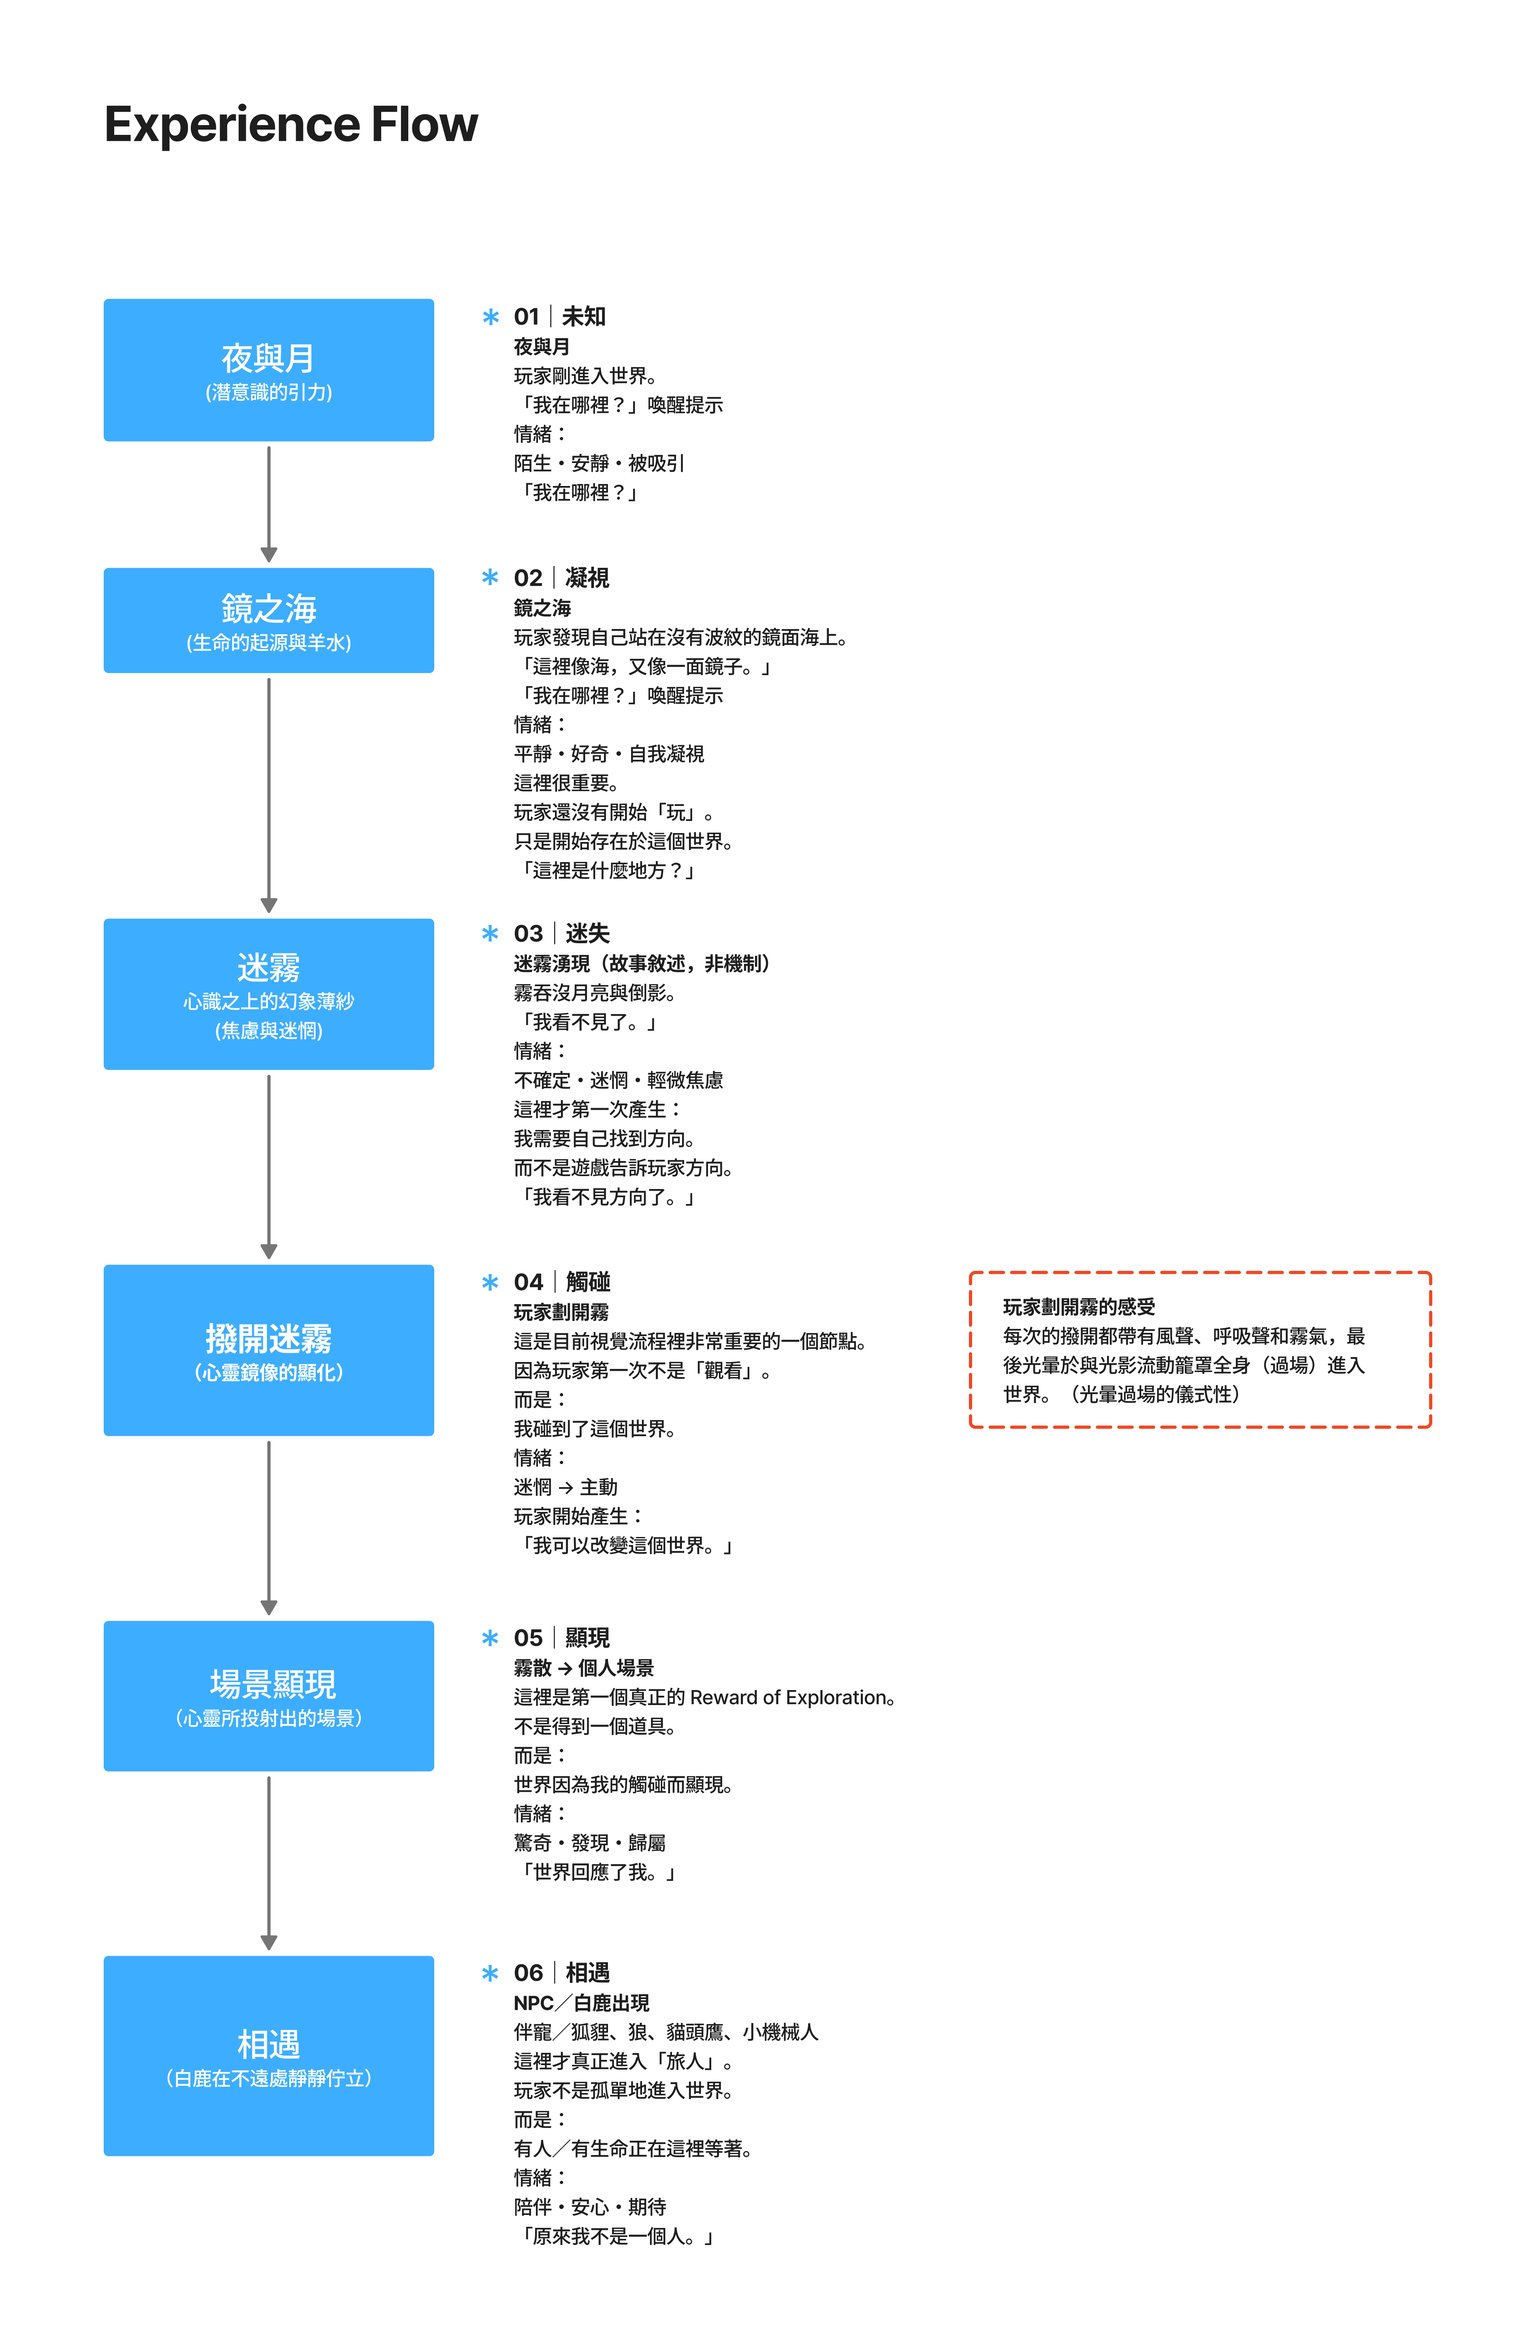
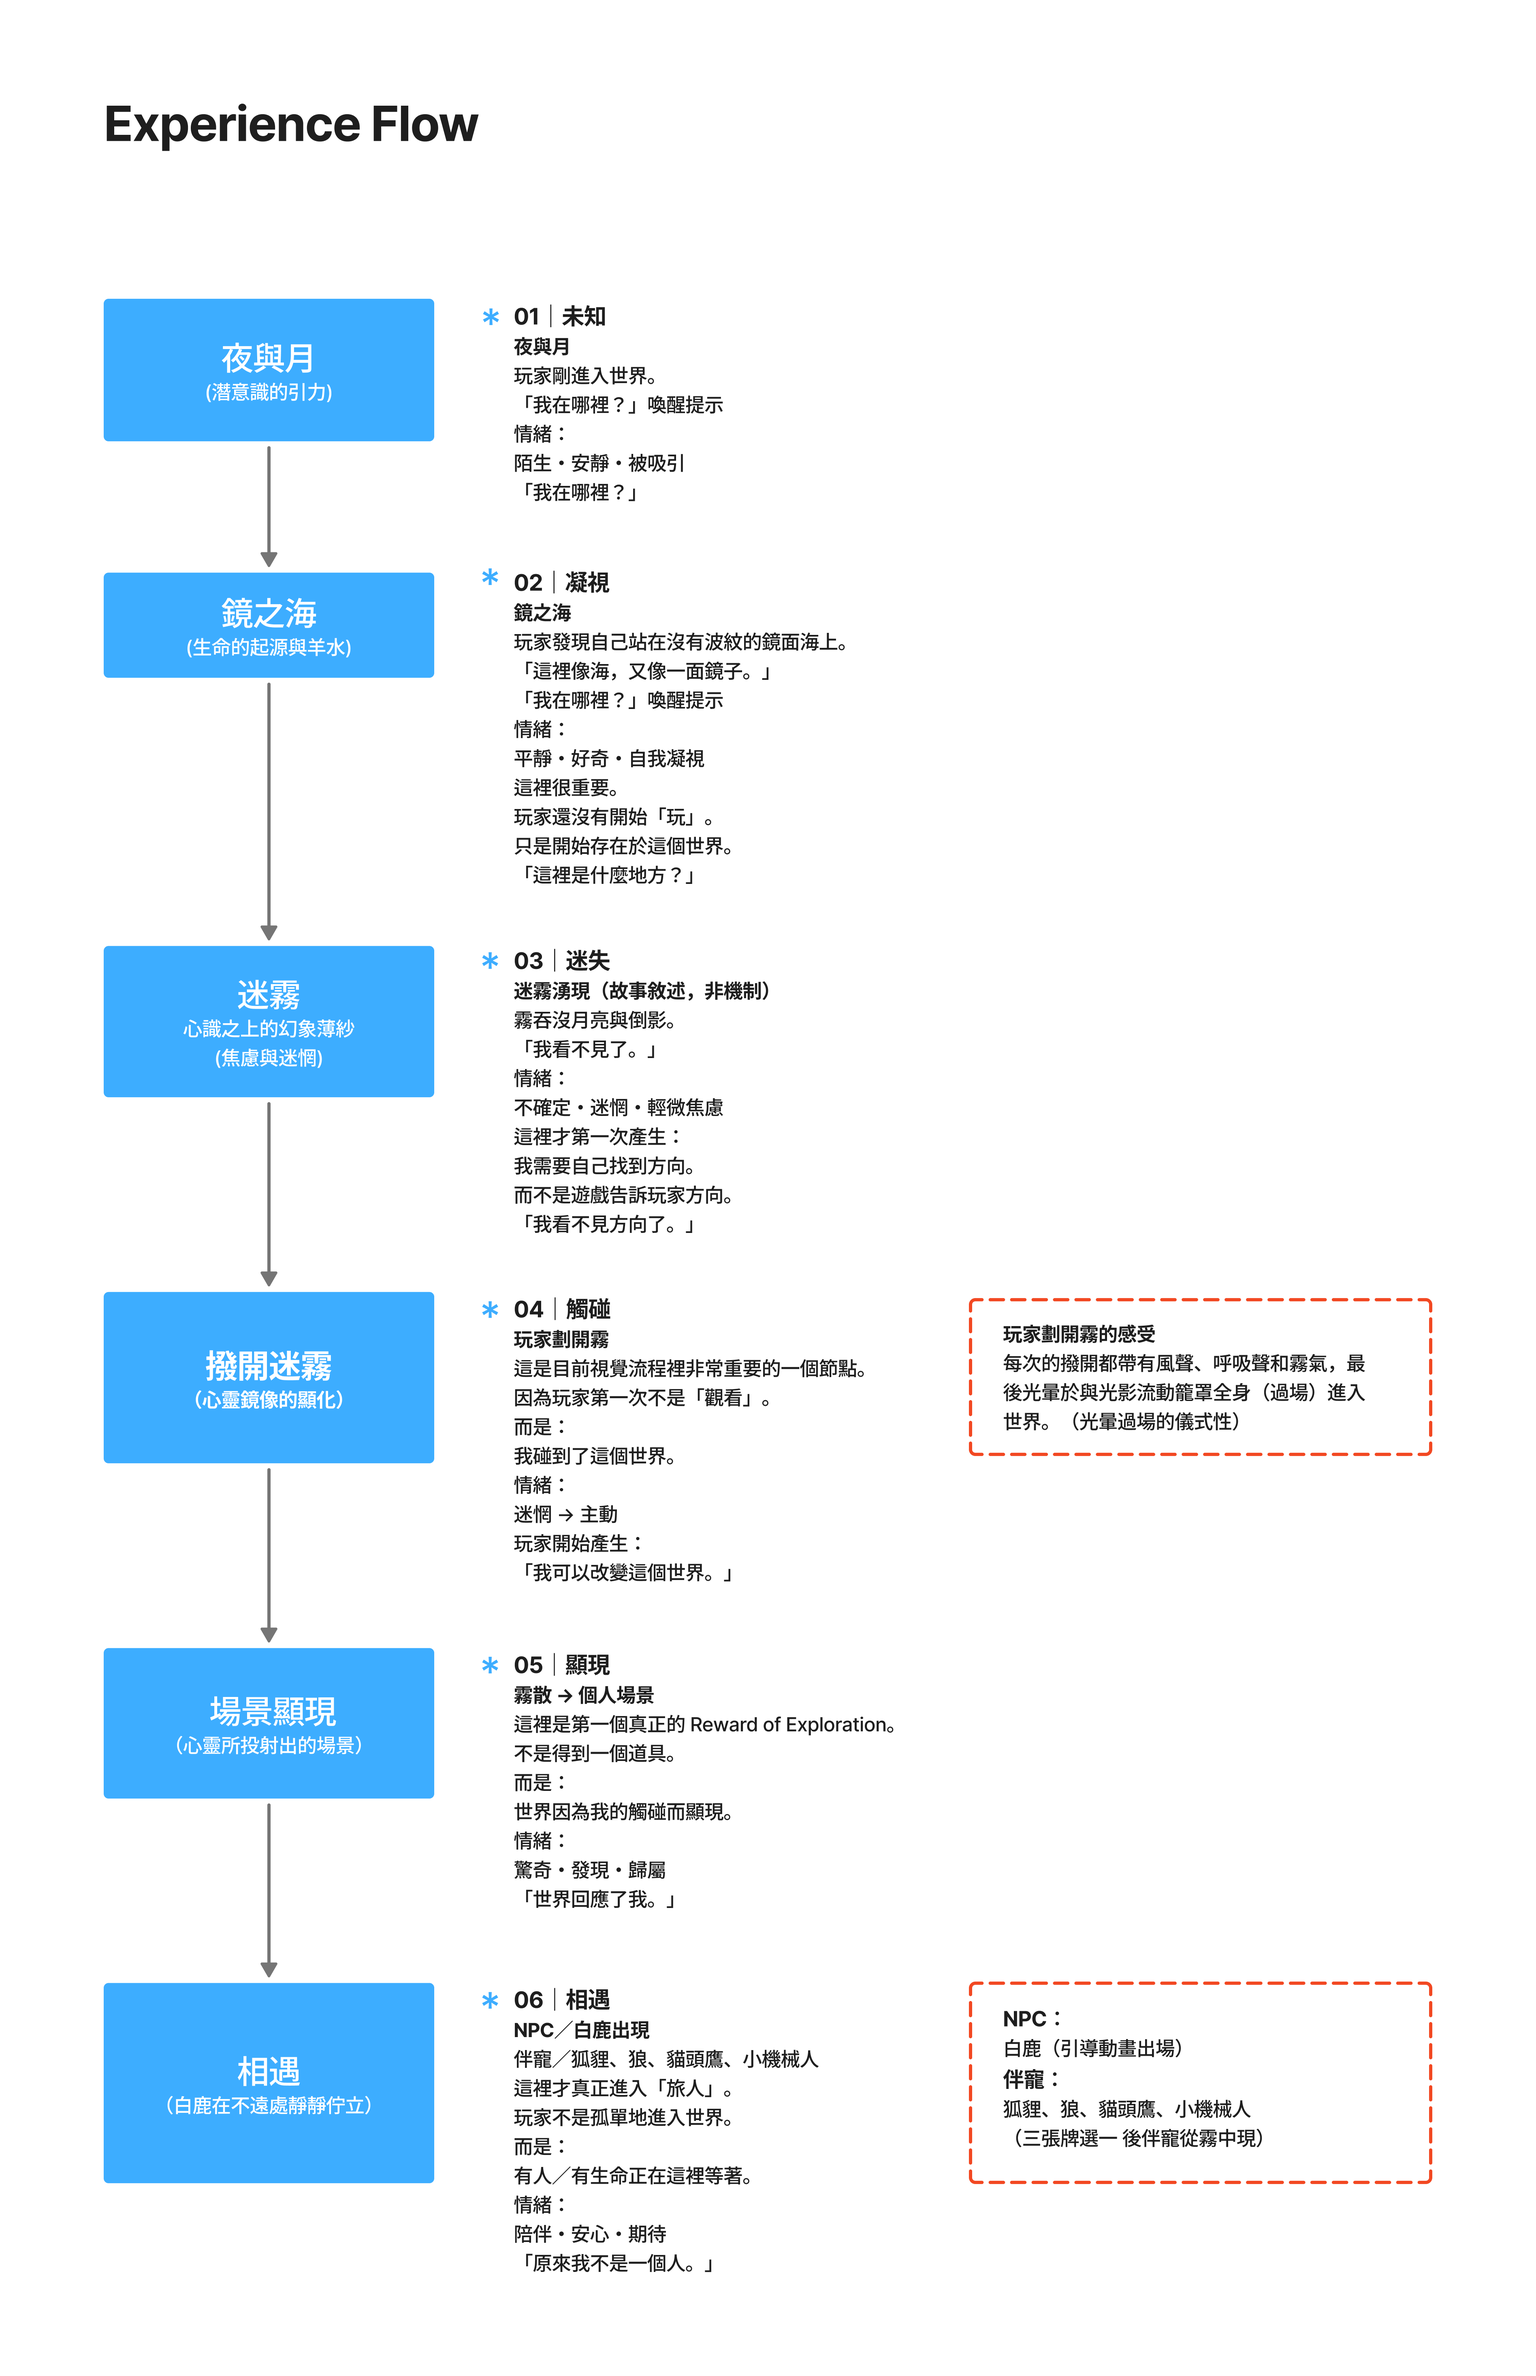
Update devlog

diff --git a/Docs/GDD/01_Core (核心總綱 & 哲學)/專案總覽與設計架構v1.2.md b/Docs/GDD/01_Core (核心總綱 & 哲學)/專案總覽與設計架構v1.2.md
@@ -1,4 +1,4 @@
-## 1.1專案總覽與設計架構 (Project Architecture)
+## 1.2專案總覽與設計架構 (Project Architecture)
 
 
 專案採用自上而下（Top-Down）的設計藍圖，確保世界觀、體驗感與技術層面高度一致：
@@ -38,7 +38,7 @@ Vision (願景)
 - Vision (願景)：心靈鏡像與非同步無聲共行的核心價值
 **「在表象的世界裡，打造一座映照自我心靈的鏡之海；透過無聲的陪伴與微光的尋獲，讓每一位旅人重新遇見自己。」**
 * **心靈鏡像：** 藉由月、海、霧與世界的場景，引導玩家進入記憶的殘影中展開一場映照內心的歷程。
-* **締結繫伴：** 融入《小王子》的「馴服」哲學，融入 過渡暱稱 + 語氣先行 + 玩家命名確認關係締結繫伴建立深層情感。
+* **締結繫伴：** 汲取《小王子》的「馴服」哲學，融入 過渡暱稱 + 語氣先行 + 玩家命名確認關係締結繫伴建立深層情感。
 * **無聲體驗：** 以「走 ➔ 停 ➔ 摸 ➔ 聽」的移動哲學，給予玩家低壓力、有呼吸感的沉浸環境。
 - Experience Flow (玩家體驗)：開場（月/海/霧）至場景顯化的感官旅程
  * **Experience（體驗）：** 未知 ➔ 凝視 ➔ 迷失 ➔ 觸碰 ➔ 顯現 ➔ 相遇
